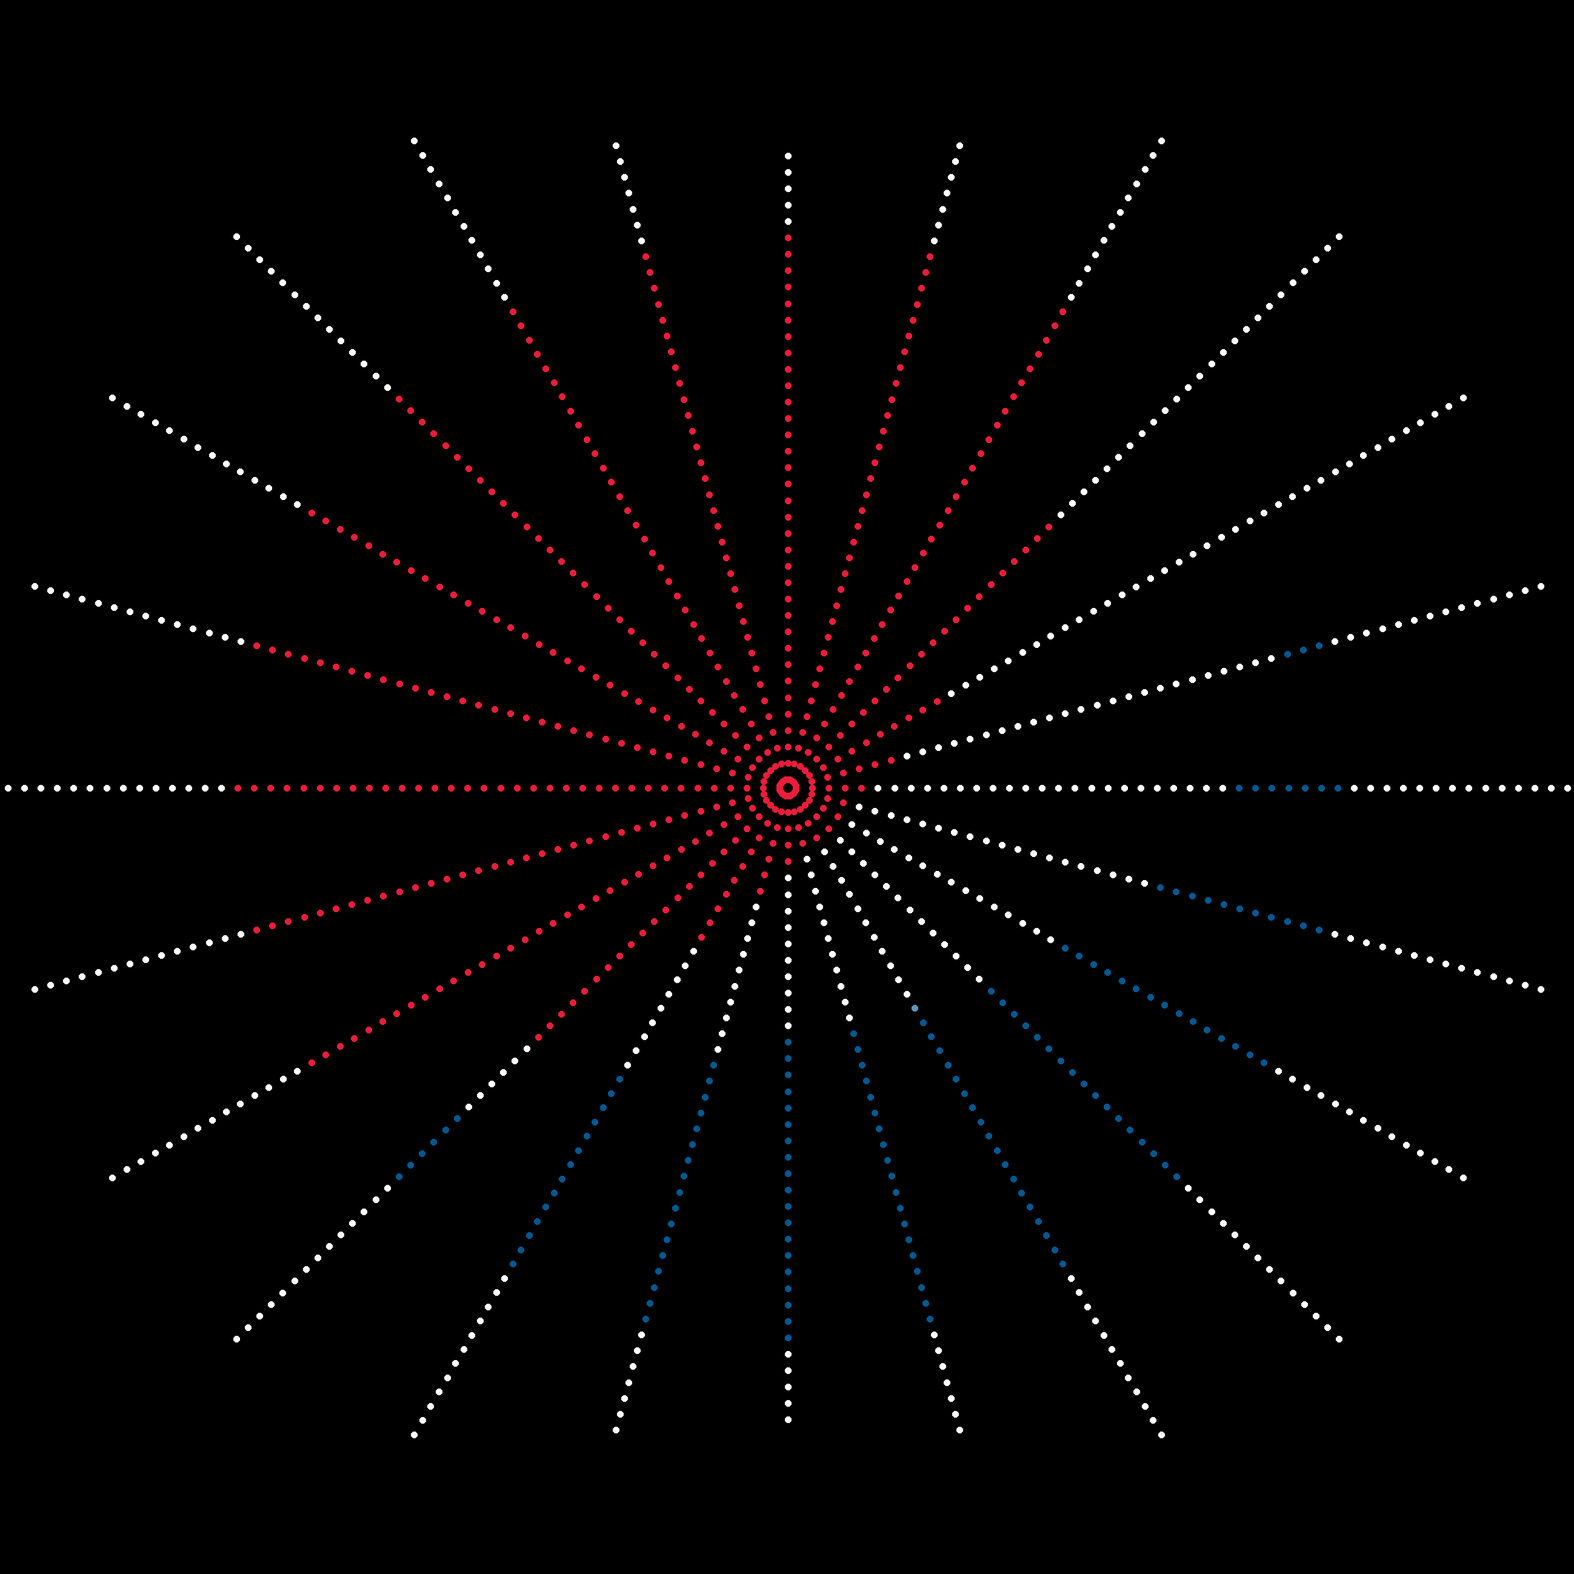
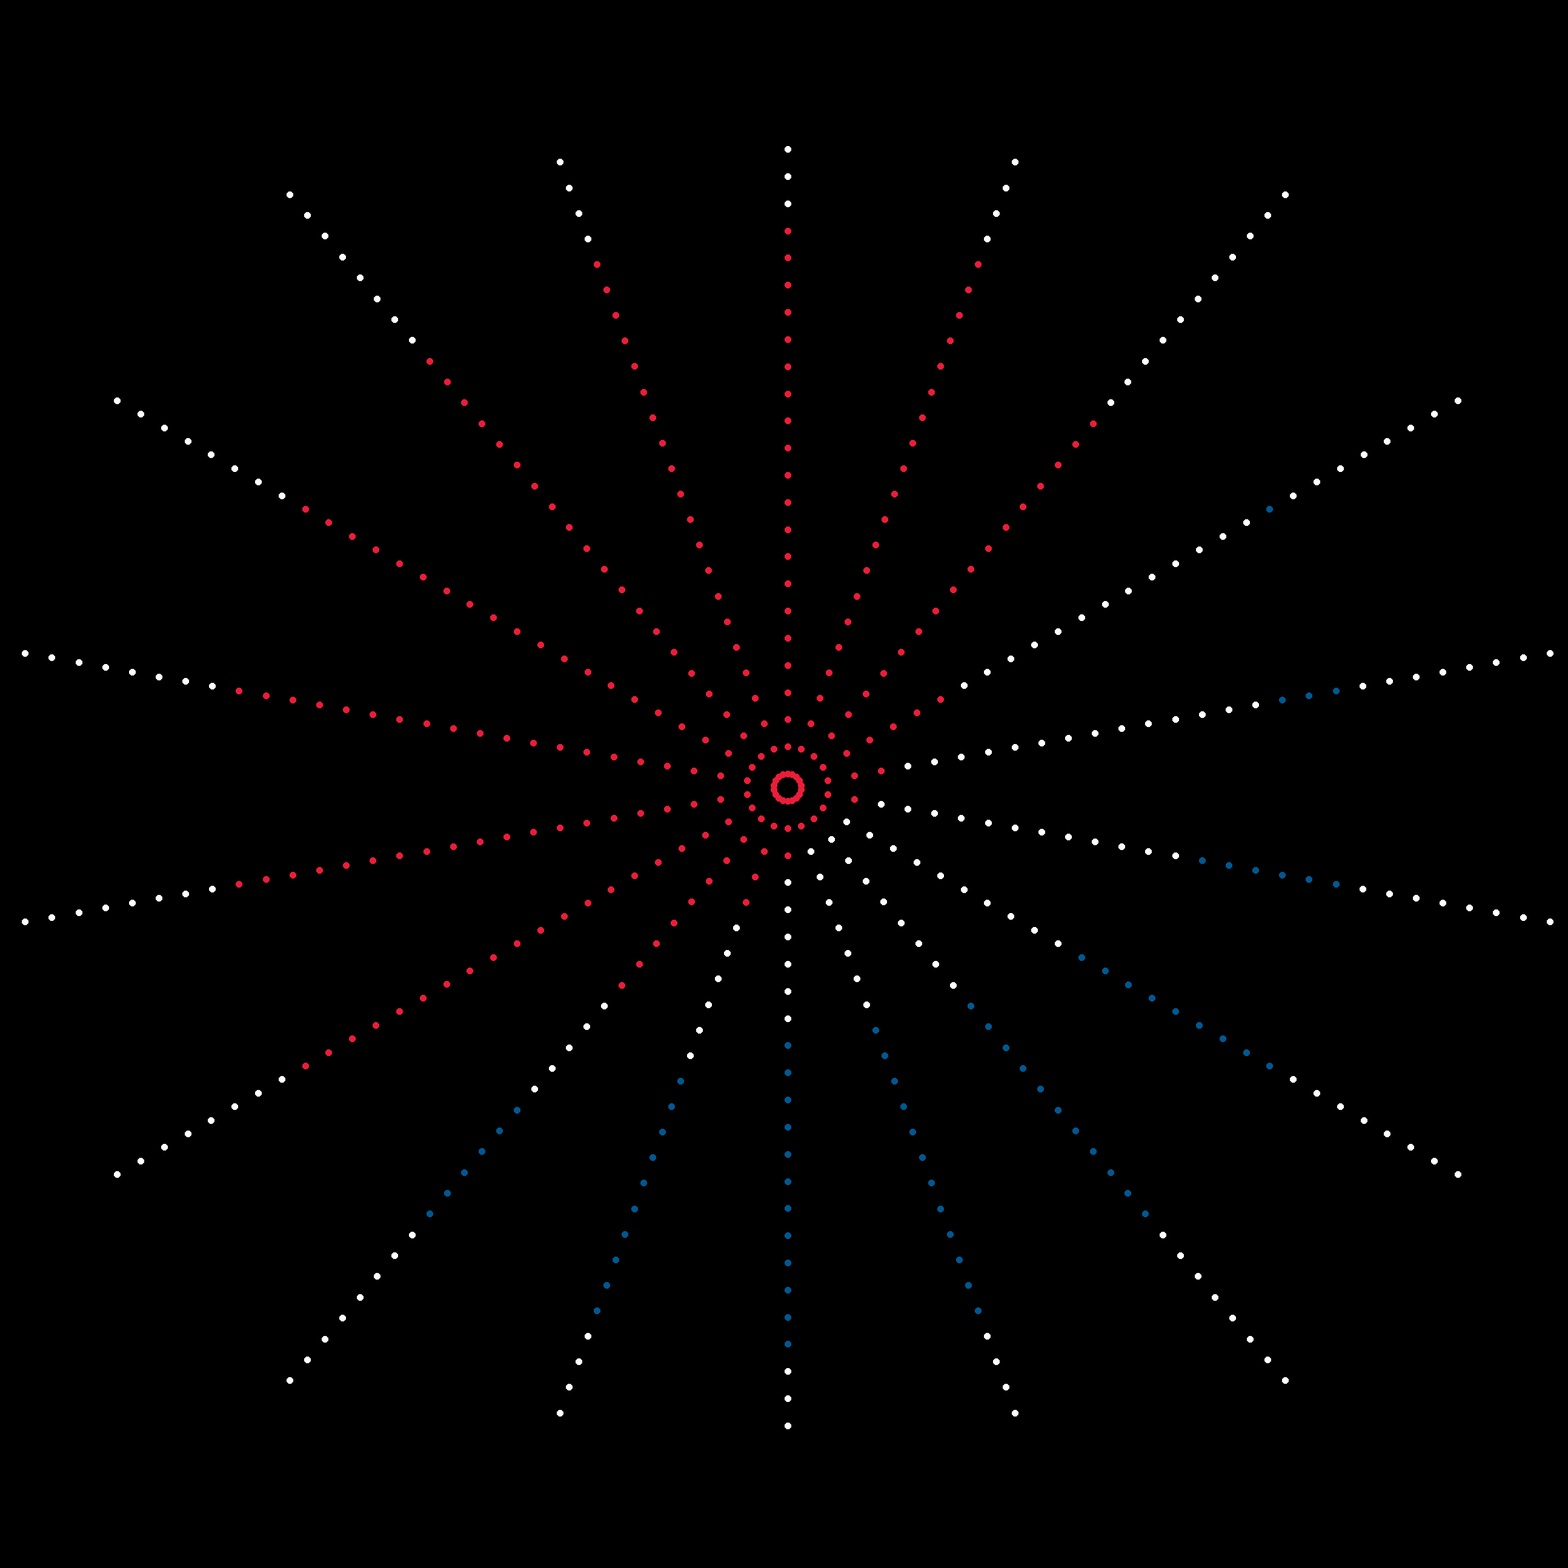
fill strip script for arduino

Changed region(s): [[0.4019, 0.4019, 0.5873, 0.5873]]

diff --git a/ExtractionPointsCouleur/test_color_array.h b/ExtractionPointsCouleur/test_color_array.h
@@ -1,0 +1,2 @@
+uint8_t colorsForStrip[9][29][3] ={{{235, 29, 57}, {235, 29, 57}, {235, 29, 57}, {255, 255, 255}, {255, 255, 255}, {255, 255, 255}, {255, 255, 255}, {255, 255, 255}, {255, 255, 255}, {0, 88, 145}, {0, 88, 145}, {0, 88, 145}, {0, 88, 145}, {0, 88, 145}, {0, 88, 145}, {0, 88, 145}, {0, 88, 145}, {0, 88, 145}, {0, 88, 145}, {0, 88, 145}, {0, 88, 145}, {255, 255, 255}, {255, 255, 255}, {255, 255, 255}, {0, 0, 0}, {0, 0, 0}, {0, 0, 0}, {0, 0, 0}, {0, 0, 0}}, {{235, 29, 57}, {235, 29, 57}, {255, 255, 255}, {255, 255, 255}, {255, 255, 255}, {255, 255, 255}, {255, 255, 255}, {255, 255, 255}, {255, 255, 255}, {0, 88, 145}, {0, 88, 145}, {0, 88, 145}, {0, 88, 145}, {0, 88, 145}, {0, 88, 145}, {0, 88, 145}, {0, 88, 145}, {0, 88, 145}, {0, 88, 145}, {0, 88, 145}, {0, 88, 145}, {255, 255, 255}, {255, 255, 255}, {255, 255, 255}, {255, 255, 255}, {0, 0, 0}, {0, 0, 0}, {0, 0, 0}, {0, 0, 0}}, {{235, 29, 57}, {235, 29, 57}, {255, 255, 255}, {255, 255, 255}, {255, 255, 255}, {255, 255, 255}, {255, 255, 255}, {255, 255, 255}, {255, 255, 255}, {255, 255, 255}, {0, 88, 145}, {0, 88, 145}, {0, 88, 145}, {0, 88, 145}, {0, 88, 145}, {0, 88, 145}, {0, 88, 145}, {0, 88, 145}, {0, 88, 145}, {0, 88, 145}, {0, 88, 145}, {255, 255, 255}, {255, 255, 255}, {255, 255, 255}, {255, 255, 255}, {255, 255, 255}, {255, 255, 255}, {255, 255, 255}, {255, 255, 255}}, {{235, 29, 57}, {235, 29, 57}, {255, 255, 255}, {255, 255, 255}, {255, 255, 255}, {255, 255, 255}, {255, 255, 255}, {255, 255, 255}, {255, 255, 255}, {255, 255, 255}, {255, 255, 255}, {255, 255, 255}, {0, 88, 145}, {0, 88, 145}, {0, 88, 145}, {0, 88, 145}, {0, 88, 145}, {0, 88, 145}, {0, 88, 145}, {0, 88, 145}, {0, 88, 145}, {255, 255, 255}, {255, 255, 255}, {255, 255, 255}, {255, 255, 255}, {255, 255, 255}, {255, 255, 255}, {255, 255, 255}, {255, 255, 255}}, {{235, 29, 57}, {235, 29, 57}, {235, 29, 57}, {255, 255, 255}, {255, 255, 255}, {255, 255, 255}, {255, 255, 255}, {255, 255, 255}, {255, 255, 255}, {255, 255, 255}, {255, 255, 255}, {255, 255, 255}, {255, 255, 255}, {255, 255, 255}, {255, 255, 255}, {0, 88, 145}, {0, 88, 145}, {0, 88, 145}, {0, 88, 145}, {0, 88, 145}, {0, 88, 145}, {255, 255, 255}, {255, 255, 255}, {255, 255, 255}, {255, 255, 255}, {255, 255, 255}, {255, 255, 255}, {255, 255, 255}, {255, 255, 255}}, {{235, 29, 57}, {235, 29, 57}, {235, 29, 57}, {235, 29, 57}, {255, 255, 255}, {255, 255, 255}, {255, 255, 255}, {255, 255, 255}, {255, 255, 255}, {255, 255, 255}, {255, 255, 255}, {255, 255, 255}, {255, 255, 255}, {255, 255, 255}, {255, 255, 255}, {255, 255, 255}, {255, 255, 255}, {255, 255, 255}, {0, 88, 145}, {0, 88, 145}, {0, 88, 145}, {255, 255, 255}, {255, 255, 255}, {255, 255, 255}, {255, 255, 255}, {255, 255, 255}, {255, 255, 255}, {255, 255, 255}, {255, 255, 255}}, {{235, 29, 57}, {235, 29, 57}, {235, 29, 57}, {235, 29, 57}, {235, 29, 57}, {235, 29, 57}, {235, 29, 57}, {255, 255, 255}, {255, 255, 255}, {255, 255, 255}, {255, 255, 255}, {255, 255, 255}, {255, 255, 255}, {255, 255, 255}, {255, 255, 255}, {255, 255, 255}, {255, 255, 255}, {255, 255, 255}, {255, 255, 255}, {255, 255, 255}, {0, 88, 145}, {255, 255, 255}, {255, 255, 255}, {255, 255, 255}, {255, 255, 255}, {255, 255, 255}, {255, 255, 255}, {255, 255, 255}, {255, 255, 255}}, {{235, 29, 57}, {235, 29, 57}, {235, 29, 57}, {235, 29, 57}, {235, 29, 57}, {235, 29, 57}, {235, 29, 57}, {235, 29, 57}, {235, 29, 57}, {235, 29, 57}, {235, 29, 57}, {235, 29, 57}, {235, 29, 57}, {235, 29, 57}, {235, 29, 57}, {235, 29, 57}, {235, 29, 57}, {235, 29, 57}, {255, 255, 255}, {255, 255, 255}, {255, 255, 255}, {255, 255, 255}, {255, 255, 255}, {255, 255, 255}, {255, 255, 255}, {255, 255, 255}, {255, 255, 255}, {255, 255, 255}, {255, 255, 255}}, {{235, 29, 57}, {235, 29, 57}, {235, 29, 57}, {235, 29, 57}, {235, 29, 57}, {235, 29, 57}, {235, 29, 57}, {235, 29, 57}, {235, 29, 57}, {235, 29, 57}, {235, 29, 57}, {235, 29, 57}, {235, 29, 57}, {235, 29, 57}, {235, 29, 57}, {235, 29, 57}, {235, 29, 57}, {235, 29, 57}, {235, 29, 57}, {235, 29, 57}, {235, 29, 57}, {255, 255, 255}, {255, 255, 255}, {255, 255, 255}, {255, 255, 255}, {0, 0, 0}, {0, 0, 0}, {0, 0, 0}, {0, 0, 0}}};
+uint8_t colorsForStrip2[9][29][3] ={{{0, 0, 0}, {235, 29, 57}, {235, 29, 57}, {235, 29, 57}, {235, 29, 57}, {235, 29, 57}, {235, 29, 57}, {235, 29, 57}, {235, 29, 57}, {235, 29, 57}, {235, 29, 57}, {235, 29, 57}, {235, 29, 57}, {235, 29, 57}, {235, 29, 57}, {235, 29, 57}, {235, 29, 57}, {235, 29, 57}, {235, 29, 57}, {235, 29, 57}, {235, 29, 57}, {255, 255, 255}, {255, 255, 255}, {255, 255, 255}, {0, 0, 0}, {0, 0, 0}, {0, 0, 0}, {0, 0, 0}, {0, 0, 0}}, {{0, 0, 0}, {235, 29, 57}, {235, 29, 57}, {235, 29, 57}, {235, 29, 57}, {235, 29, 57}, {235, 29, 57}, {235, 29, 57}, {235, 29, 57}, {235, 29, 57}, {235, 29, 57}, {235, 29, 57}, {235, 29, 57}, {235, 29, 57}, {235, 29, 57}, {235, 29, 57}, {235, 29, 57}, {235, 29, 57}, {235, 29, 57}, {235, 29, 57}, {235, 29, 57}, {255, 255, 255}, {255, 255, 255}, {255, 255, 255}, {255, 255, 255}, {0, 0, 0}, {0, 0, 0}, {0, 0, 0}, {0, 0, 0}}, {{0, 0, 0}, {235, 29, 57}, {235, 29, 57}, {235, 29, 57}, {235, 29, 57}, {235, 29, 57}, {235, 29, 57}, {235, 29, 57}, {235, 29, 57}, {235, 29, 57}, {235, 29, 57}, {235, 29, 57}, {235, 29, 57}, {235, 29, 57}, {235, 29, 57}, {235, 29, 57}, {235, 29, 57}, {235, 29, 57}, {235, 29, 57}, {235, 29, 57}, {235, 29, 57}, {255, 255, 255}, {255, 255, 255}, {255, 255, 255}, {255, 255, 255}, {255, 255, 255}, {255, 255, 255}, {255, 255, 255}, {255, 255, 255}}, {{0, 0, 0}, {235, 29, 57}, {235, 29, 57}, {235, 29, 57}, {235, 29, 57}, {235, 29, 57}, {235, 29, 57}, {235, 29, 57}, {235, 29, 57}, {235, 29, 57}, {235, 29, 57}, {235, 29, 57}, {235, 29, 57}, {235, 29, 57}, {235, 29, 57}, {235, 29, 57}, {235, 29, 57}, {235, 29, 57}, {235, 29, 57}, {235, 29, 57}, {235, 29, 57}, {255, 255, 255}, {255, 255, 255}, {255, 255, 255}, {255, 255, 255}, {255, 255, 255}, {255, 255, 255}, {255, 255, 255}, {255, 255, 255}}, {{0, 0, 0}, {235, 29, 57}, {235, 29, 57}, {235, 29, 57}, {235, 29, 57}, {235, 29, 57}, {235, 29, 57}, {235, 29, 57}, {235, 29, 57}, {235, 29, 57}, {235, 29, 57}, {235, 29, 57}, {235, 29, 57}, {235, 29, 57}, {235, 29, 57}, {235, 29, 57}, {235, 29, 57}, {235, 29, 57}, {235, 29, 57}, {235, 29, 57}, {235, 29, 57}, {255, 255, 255}, {255, 255, 255}, {255, 255, 255}, {255, 255, 255}, {255, 255, 255}, {255, 255, 255}, {255, 255, 255}, {255, 255, 255}}, {{0, 0, 0}, {235, 29, 57}, {235, 29, 57}, {235, 29, 57}, {235, 29, 57}, {235, 29, 57}, {235, 29, 57}, {235, 29, 57}, {235, 29, 57}, {235, 29, 57}, {235, 29, 57}, {235, 29, 57}, {235, 29, 57}, {235, 29, 57}, {235, 29, 57}, {235, 29, 57}, {235, 29, 57}, {235, 29, 57}, {235, 29, 57}, {235, 29, 57}, {235, 29, 57}, {255, 255, 255}, {255, 255, 255}, {255, 255, 255}, {255, 255, 255}, {255, 255, 255}, {255, 255, 255}, {255, 255, 255}, {255, 255, 255}}, {{0, 0, 0}, {235, 29, 57}, {235, 29, 57}, {235, 29, 57}, {235, 29, 57}, {235, 29, 57}, {235, 29, 57}, {235, 29, 57}, {235, 29, 57}, {235, 29, 57}, {235, 29, 57}, {235, 29, 57}, {235, 29, 57}, {235, 29, 57}, {235, 29, 57}, {235, 29, 57}, {235, 29, 57}, {235, 29, 57}, {235, 29, 57}, {235, 29, 57}, {235, 29, 57}, {255, 255, 255}, {255, 255, 255}, {255, 255, 255}, {255, 255, 255}, {255, 255, 255}, {255, 255, 255}, {255, 255, 255}, {255, 255, 255}}, {{0, 0, 0}, {235, 29, 57}, {235, 29, 57}, {235, 29, 57}, {235, 29, 57}, {235, 29, 57}, {235, 29, 57}, {235, 29, 57}, {235, 29, 57}, {235, 29, 57}, {255, 255, 255}, {255, 255, 255}, {255, 255, 255}, {255, 255, 255}, {255, 255, 255}, {0, 88, 145}, {0, 88, 145}, {0, 88, 145}, {0, 88, 145}, {0, 88, 145}, {0, 88, 145}, {255, 255, 255}, {255, 255, 255}, {255, 255, 255}, {255, 255, 255}, {255, 255, 255}, {255, 255, 255}, {255, 255, 255}, {255, 255, 255}}, {{0, 0, 0}, {235, 29, 57}, {235, 29, 57}, {235, 29, 57}, {235, 29, 57}, {255, 255, 255}, {255, 255, 255}, {255, 255, 255}, {255, 255, 255}, {255, 255, 255}, {255, 255, 255}, {0, 88, 145}, {0, 88, 145}, {0, 88, 145}, {0, 88, 145}, {0, 88, 145}, {0, 88, 145}, {0, 88, 145}, {0, 88, 145}, {0, 88, 145}, {0, 88, 145}, {255, 255, 255}, {255, 255, 255}, {255, 255, 255}, {255, 255, 255}, {0, 0, 0}, {0, 0, 0}, {0, 0, 0}, {0, 0, 0}}};

diff --git a/fillStripWithImage.io/test_color_array.h b/fillStripWithImage.io/test_color_array.h
@@ -1,0 +1,2 @@
+uint8_t colorsForStrip[9][28][3] ={{{235, 29, 57}, {235, 29, 57}, {235, 29, 57}, {255, 255, 255}, {255, 255, 255}, {255, 255, 255}, {255, 255, 255}, {255, 255, 255}, {255, 255, 255}, {0, 88, 145}, {0, 88, 145}, {0, 88, 145}, {0, 88, 145}, {0, 88, 145}, {0, 88, 145}, {0, 88, 145}, {0, 88, 145}, {0, 88, 145}, {0, 88, 145}, {0, 88, 145}, {255, 255, 255}, {255, 255, 255}, {255, 255, 255}, {0, 0, 0}, {0, 0, 0}, {0, 0, 0}, {0, 0, 0}, {0, 0, 0}}, {{235, 29, 57}, {235, 29, 57}, {255, 255, 255}, {255, 255, 255}, {255, 255, 255}, {255, 255, 255}, {255, 255, 255}, {255, 255, 255}, {255, 255, 255}, {0, 88, 145}, {0, 88, 145}, {0, 88, 145}, {0, 88, 145}, {0, 88, 145}, {0, 88, 145}, {0, 88, 145}, {0, 88, 145}, {0, 88, 145}, {0, 88, 145}, {0, 88, 145}, {255, 255, 255}, {255, 255, 255}, {255, 255, 255}, {255, 255, 255}, {0, 0, 0}, {0, 0, 0}, {0, 0, 0}, {0, 0, 0}}, {{235, 29, 57}, {235, 29, 57}, {255, 255, 255}, {255, 255, 255}, {255, 255, 255}, {255, 255, 255}, {255, 255, 255}, {255, 255, 255}, {255, 255, 255}, {255, 255, 255}, {0, 88, 145}, {0, 88, 145}, {0, 88, 145}, {0, 88, 145}, {0, 88, 145}, {0, 88, 145}, {0, 88, 145}, {0, 88, 145}, {0, 88, 145}, {0, 88, 145}, {255, 255, 255}, {255, 255, 255}, {255, 255, 255}, {255, 255, 255}, {255, 255, 255}, {255, 255, 255}, {255, 255, 255}, {255, 255, 255}}, {{235, 29, 57}, {235, 29, 57}, {255, 255, 255}, {255, 255, 255}, {255, 255, 255}, {255, 255, 255}, {255, 255, 255}, {255, 255, 255}, {255, 255, 255}, {255, 255, 255}, {255, 255, 255}, {0, 88, 145}, {0, 88, 145}, {0, 88, 145}, {0, 88, 145}, {0, 88, 145}, {0, 88, 145}, {0, 88, 145}, {0, 88, 145}, {0, 88, 145}, {255, 255, 255}, {255, 255, 255}, {255, 255, 255}, {255, 255, 255}, {255, 255, 255}, {255, 255, 255}, {255, 255, 255}, {255, 255, 255}}, {{235, 29, 57}, {235, 29, 57}, {235, 29, 57}, {255, 255, 255}, {255, 255, 255}, {255, 255, 255}, {255, 255, 255}, {255, 255, 255}, {255, 255, 255}, {255, 255, 255}, {255, 255, 255}, {255, 255, 255}, {255, 255, 255}, {255, 255, 255}, {0, 88, 145}, {0, 88, 145}, {0, 88, 145}, {0, 88, 145}, {0, 88, 145}, {0, 88, 145}, {255, 255, 255}, {255, 255, 255}, {255, 255, 255}, {255, 255, 255}, {255, 255, 255}, {255, 255, 255}, {255, 255, 255}, {255, 255, 255}}, {{235, 29, 57}, {235, 29, 57}, {235, 29, 57}, {250, 197, 205}, {255, 255, 255}, {255, 255, 255}, {255, 255, 255}, {255, 255, 255}, {255, 255, 255}, {255, 255, 255}, {255, 255, 255}, {255, 255, 255}, {255, 255, 255}, {255, 255, 255}, {255, 255, 255}, {255, 255, 255}, {255, 255, 255}, {0, 88, 145}, {0, 88, 145}, {0, 88, 145}, {255, 255, 255}, {255, 255, 255}, {255, 255, 255}, {255, 255, 255}, {255, 255, 255}, {255, 255, 255}, {255, 255, 255}, {255, 255, 255}}, {{235, 29, 57}, {235, 29, 57}, {235, 29, 57}, {235, 29, 57}, {235, 29, 57}, {235, 29, 57}, {255, 255, 255}, {255, 255, 255}, {255, 255, 255}, {255, 255, 255}, {255, 255, 255}, {255, 255, 255}, {255, 255, 255}, {255, 255, 255}, {255, 255, 255}, {255, 255, 255}, {255, 255, 255}, {255, 255, 255}, {255, 255, 255}, {255, 255, 255}, {255, 255, 255}, {255, 255, 255}, {255, 255, 255}, {255, 255, 255}, {255, 255, 255}, {255, 255, 255}, {255, 255, 255}, {255, 255, 255}}, {{235, 29, 57}, {235, 29, 57}, {235, 29, 57}, {235, 29, 57}, {235, 29, 57}, {235, 29, 57}, {235, 29, 57}, {235, 29, 57}, {235, 29, 57}, {235, 29, 57}, {235, 29, 57}, {235, 29, 57}, {235, 29, 57}, {235, 29, 57}, {235, 29, 57}, {235, 29, 57}, {235, 29, 57}, {255, 255, 255}, {255, 255, 255}, {255, 255, 255}, {255, 255, 255}, {255, 255, 255}, {255, 255, 255}, {255, 255, 255}, {255, 255, 255}, {255, 255, 255}, {255, 255, 255}, {255, 255, 255}}, {{235, 29, 57}, {235, 29, 57}, {235, 29, 57}, {235, 29, 57}, {235, 29, 57}, {235, 29, 57}, {235, 29, 57}, {235, 29, 57}, {235, 29, 57}, {235, 29, 57}, {235, 29, 57}, {235, 29, 57}, {235, 29, 57}, {235, 29, 57}, {235, 29, 57}, {235, 29, 57}, {235, 29, 57}, {235, 29, 57}, {235, 29, 57}, {235, 29, 57}, {255, 255, 255}, {255, 255, 255}, {255, 255, 255}, {255, 255, 255}, {0, 0, 0}, {0, 0, 0}, {0, 0, 0}, {0, 0, 0}}};
+uint8_t colorsForStrip2[9][28][3] ={{{0, 0, 0}, {235, 29, 57}, {235, 29, 57}, {235, 29, 57}, {235, 29, 57}, {235, 29, 57}, {235, 29, 57}, {235, 29, 57}, {235, 29, 57}, {235, 29, 57}, {235, 29, 57}, {235, 29, 57}, {235, 29, 57}, {235, 29, 57}, {235, 29, 57}, {235, 29, 57}, {235, 29, 57}, {235, 29, 57}, {235, 29, 57}, {235, 29, 57}, {255, 255, 255}, {255, 255, 255}, {255, 255, 255}, {0, 0, 0}, {0, 0, 0}, {0, 0, 0}, {0, 0, 0}, {0, 0, 0}}, {{0, 0, 0}, {235, 29, 57}, {235, 29, 57}, {235, 29, 57}, {235, 29, 57}, {235, 29, 57}, {235, 29, 57}, {235, 29, 57}, {235, 29, 57}, {235, 29, 57}, {235, 29, 57}, {235, 29, 57}, {235, 29, 57}, {235, 29, 57}, {235, 29, 57}, {235, 29, 57}, {235, 29, 57}, {235, 29, 57}, {235, 29, 57}, {235, 29, 57}, {255, 255, 255}, {255, 255, 255}, {255, 255, 255}, {255, 255, 255}, {0, 0, 0}, {0, 0, 0}, {0, 0, 0}, {0, 0, 0}}, {{0, 0, 0}, {235, 29, 57}, {235, 29, 57}, {235, 29, 57}, {235, 29, 57}, {235, 29, 57}, {235, 29, 57}, {235, 29, 57}, {235, 29, 57}, {235, 29, 57}, {235, 29, 57}, {235, 29, 57}, {235, 29, 57}, {235, 29, 57}, {235, 29, 57}, {235, 29, 57}, {235, 29, 57}, {235, 29, 57}, {235, 29, 57}, {235, 29, 57}, {255, 255, 255}, {255, 255, 255}, {255, 255, 255}, {255, 255, 255}, {255, 255, 255}, {255, 255, 255}, {255, 255, 255}, {255, 255, 255}}, {{0, 0, 0}, {235, 29, 57}, {235, 29, 57}, {235, 29, 57}, {235, 29, 57}, {235, 29, 57}, {235, 29, 57}, {235, 29, 57}, {235, 29, 57}, {235, 29, 57}, {235, 29, 57}, {235, 29, 57}, {235, 29, 57}, {235, 29, 57}, {235, 29, 57}, {235, 29, 57}, {235, 29, 57}, {235, 29, 57}, {235, 29, 57}, {235, 29, 57}, {255, 255, 255}, {255, 255, 255}, {255, 255, 255}, {255, 255, 255}, {255, 255, 255}, {255, 255, 255}, {255, 255, 255}, {255, 255, 255}}, {{0, 0, 0}, {235, 29, 57}, {235, 29, 57}, {235, 29, 57}, {235, 29, 57}, {235, 29, 57}, {235, 29, 57}, {235, 29, 57}, {235, 29, 57}, {235, 29, 57}, {235, 29, 57}, {235, 29, 57}, {235, 29, 57}, {235, 29, 57}, {235, 29, 57}, {235, 29, 57}, {235, 29, 57}, {235, 29, 57}, {235, 29, 57}, {235, 29, 57}, {255, 255, 255}, {255, 255, 255}, {255, 255, 255}, {255, 255, 255}, {255, 255, 255}, {255, 255, 255}, {255, 255, 255}, {255, 255, 255}}, {{0, 0, 0}, {235, 29, 57}, {235, 29, 57}, {235, 29, 57}, {235, 29, 57}, {235, 29, 57}, {235, 29, 57}, {235, 29, 57}, {235, 29, 57}, {235, 29, 57}, {235, 29, 57}, {235, 29, 57}, {235, 29, 57}, {235, 29, 57}, {235, 29, 57}, {235, 29, 57}, {235, 29, 57}, {235, 29, 57}, {235, 29, 57}, {235, 29, 57}, {255, 255, 255}, {255, 255, 255}, {255, 255, 255}, {255, 255, 255}, {255, 255, 255}, {255, 255, 255}, {255, 255, 255}, {255, 255, 255}}, {{0, 0, 0}, {235, 29, 57}, {235, 29, 57}, {235, 29, 57}, {235, 29, 57}, {235, 29, 57}, {235, 29, 57}, {235, 29, 57}, {235, 29, 57}, {235, 29, 57}, {235, 29, 57}, {235, 29, 57}, {235, 29, 57}, {235, 29, 57}, {235, 29, 57}, {235, 29, 57}, {235, 29, 57}, {235, 29, 57}, {235, 29, 57}, {235, 29, 57}, {255, 255, 255}, {255, 255, 255}, {255, 255, 255}, {255, 255, 255}, {255, 255, 255}, {255, 255, 255}, {255, 255, 255}, {255, 255, 255}}, {{0, 0, 0}, {235, 29, 57}, {235, 29, 57}, {235, 29, 57}, {235, 29, 57}, {235, 29, 57}, {235, 29, 57}, {235, 29, 57}, {235, 29, 57}, {235, 29, 57}, {255, 255, 255}, {255, 255, 255}, {255, 255, 255}, {255, 255, 255}, {34, 110, 160}, {0, 88, 145}, {0, 88, 145}, {0, 88, 145}, {0, 88, 145}, {0, 88, 145}, {255, 255, 255}, {255, 255, 255}, {255, 255, 255}, {255, 255, 255}, {255, 255, 255}, {255, 255, 255}, {255, 255, 255}, {255, 255, 255}}, {{0, 0, 0}, {235, 29, 57}, {235, 29, 57}, {235, 29, 57}, {255, 255, 255}, {255, 255, 255}, {255, 255, 255}, {255, 255, 255}, {255, 255, 255}, {255, 255, 255}, {0, 88, 145}, {0, 88, 145}, {0, 88, 145}, {0, 88, 145}, {0, 88, 145}, {0, 88, 145}, {0, 88, 145}, {0, 88, 145}, {0, 88, 145}, {0, 88, 145}, {255, 255, 255}, {255, 255, 255}, {255, 255, 255}, {255, 255, 255}, {0, 0, 0}, {0, 0, 0}, {0, 0, 0}, {0, 0, 0}}};

diff --git a/ExtractionPointsCouleur/extractionPointCouleur.py b/ExtractionPointsCouleur/extractionPointCouleur.py
@@ -29,6 +29,21 @@ def affichagePointsDeCouleur(nomFichier, pointsDeCouleurExtraits, diametreLed):
     outputImg.save(nomFichier)
 
 
+def arrayPickedColors(pickedColors):
+  cleanedPickedColors = []
+  lastTheta = 0
+  thetaIndex = 0
+  for pickedColor in pickedColors:
+    if pickedColor[0][0][0] != lastTheta:
+      thetaIndex += 1
+    lastTheta = pickedColor[0][0][0]
+    cleanedPickedColors.append(
+        (thetaIndex, pickedColor[0][0][1], pickedColor[1][0], pickedColor[1][1], pickedColor[1][2]))
+    cleanedPickedColors.sort(key=lambda x: (x[0], x[1]))
+
+  return cleanedPickedColors
+
+
 def extractionCouleurs(pointsDextraction, image):
     """Pick pixel colors on image
 
@@ -102,10 +117,10 @@ def pointsDextraction(diametreZoneDextraction, nbPointsParLigne, angleAvance, an
 
 
 # Configuration variables
-nbLedsHelice = 2*48
+nbLedsHelice = 2*29
 nomFichier = 'pepsi.png'
 nomFichierSortie = 'result_picking.png'
-angleAvance = 15
+angleAvance = 20
 zoomFactor = 100  # zoom factor in percent
 
 if __name__ == "__main__":
@@ -122,5 +137,35 @@ if __name__ == "__main__":
     pointsDextraction = pointsDextraction(
         baseImgSize, nbLedsHelice, angleAvance)
     pointsDeCouleur = extractionCouleurs(pointsDextraction, imageCentree)
-    print(pointsDeCouleur)
+
+    arrayPoints = arrayPickedColors(pointsDeCouleur)
+    # print(arrayPoints)
+
+    colorsForStrip = [[[0 for _ in range(3)]
+                       for _ in range(29)] for _ in range(9)]
+    colorsForStrip2 = [[[0 for _ in range(3)]
+                       for _ in range(29)] for _ in range(9)]
+
+    for i in range(len(arrayPoints)):
+        sectorIndex = arrayPoints[i][0]
+        rIndex = arrayPoints[i][1]
+
+        if rIndex >= 0:
+            colorsForStrip[sectorIndex][rIndex][0] = arrayPoints[i][2]
+            colorsForStrip[sectorIndex][rIndex][1] = arrayPoints[i][3]
+            colorsForStrip[sectorIndex][rIndex][2] = arrayPoints[i][4]
+        else:
+            rIndex = -rIndex
+            colorsForStrip2[sectorIndex][rIndex][0] = arrayPoints[i][2]
+            colorsForStrip2[sectorIndex][rIndex][1] = arrayPoints[i][3]
+            colorsForStrip2[sectorIndex][rIndex][2] = arrayPoints[i][4]
+
+    print(str(colorsForStrip).replace("[", "{").replace("]", "}"))
+
+    with open("./test_color_array.h", 'w') as outfile:
+        outfile.write("uint8_t colorsForStrip[9][29][3] =" + str(
+            colorsForStrip).replace("[", "{").replace("]", "}") + ";\n" + "uint8_t colorsForStrip2[9][29][3] =" + str(
+            colorsForStrip2).replace("[", "{").replace("]", "}") + ";\n"
+        )
+
     affichagePointsDeCouleur(nomFichierSortie, pointsDeCouleur, 10)

diff --git a/ExtractionPointsCouleur/dessin.py b/ExtractionPointsCouleur/dessin.py
@@ -1,0 +1,19 @@
+from PIL import Image
+from PIL import ImageDraw
+
+# Open the image
+im = Image.open("image.png")
+
+# Create a drawing context
+draw = ImageDraw.Draw(im)
+
+# Set the color for the pixels
+pixel_color = (255, 0, 0)  # Red
+
+# Draw the pixels at the specified coordinates
+draw.ellipse(((10, 10), (20, 20)), fill=pixel_color)  # Draw a single pixel
+draw.ellipse(((20, 20), (30, 30)), fill=pixel_color)
+# draw.ellipse((30, 30), fill=pixel_color)
+
+# Save the image
+im.save("image_with_pixels.png")
